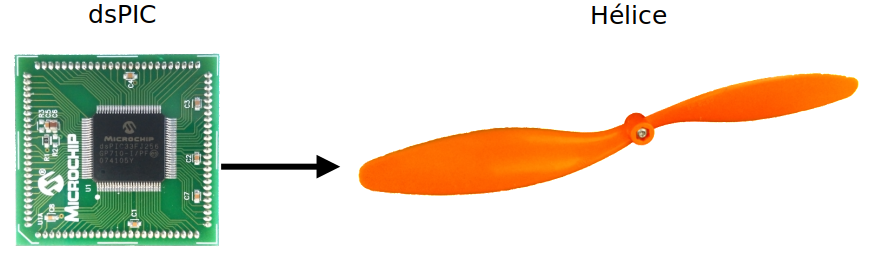
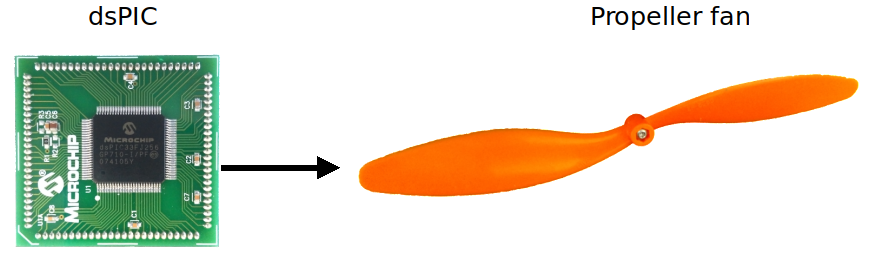
[Project 1] Relecture.

diff --git a/projet/partie 1/elech310_projet_partie1_eng.tex b/projet/partie 1/elech310_projet_partie1_eng.tex
@@ -2,7 +2,7 @@
 \usepackage[utf8]{inputenc}
 \usepackage[T1]{fontenc}
 \usepackage{amsthm} %numéroter les questions
-\usepackage[frenchb]{babel}
+\usepackage[english]{babel}
 \usepackage{datetime}
 \usepackage{xspace} % typographie IN
 \usepackage{hyperref}% hyperliens
@@ -28,7 +28,7 @@
 
 \usepackage{framed}
 
-\newdateformat{mydate}{2016--2017}%hack pour remplacer \THEYEAR
+\newdateformat{mydate}{v1.0.0}%hack pour remplacer \THEYEAR
 
 
 \newboolean{corrige}
@@ -55,7 +55,7 @@
 %% fancy header & foot
 \pagestyle{fancy}
 %Numero du TP :
-\def \labonumber {Projet -- Partie 1}
+\def \labonumber {Projet -- Part 1}
 \lhead{[ELEC-H-310] Choucroute numérique\\ \labonumber}
 \rhead{\mydate\today\\ page \thepage}
 \chead{\ifthenelse{\boolean{corrige}}{Corrigé}{}}
@@ -84,7 +84,7 @@ pdfsubject={}
 \newcommand{\addcontentslinenono}[4]{\addtocontents{#1}{\protect\contentsline{#2}{#3}{#4}{}}}
 
 \date{\vspace{-1.7cm}\mydate\today}
-\title{\vspace{-2cm}\labonumber \\ Digital electronics [ELEC-H-310]\\Design of a cooling control system~: \\ pre-analysis and propeller fan power supply\ifthenelse{\boolean{corrige}}{~\\Corrigé}{}}
+\title{\vspace{-2cm}\labonumber \\ Digital electronics [ELEC-H-310]\\Design of a cooling control system: \\ pre-analysis and propeller fan power supply\ifthenelse{\boolean{corrige}}{~\\Corrigé}{}}
 
 %\author{\vspace{-1cm}}%\textsc{Yannick Allard}}
 
@@ -96,61 +96,61 @@ pdfsubject={}
 
 
 
-%%%%%%%%%%%%%%%%%%%%%%%%%%%%%%%%%%%%%%%%%%%%%%%%%%%%%%%%%%%%%%%%%%%%%%%%%%%%%%%%%%%%%%%%%%%%%%%%%%%%%%%%%%%%%
-%%%%%%%%%%%%%%%%%%%%%%%%%%%%%%%%%%%%%%%%%%%%%%%%%%%%%%%%%%%%%%%%%%%%%%%%%%%%%%%%%%%%%%%%%%%%%%%%%%%%%%%%%%%%%
-%%%%%%%%%%%%%%%%%%%%%%%%%%%%%%%%%%%%%%%%%%%%%%%%%%%%%%%%%%%%%%%%%%%%%%%%%%%%%%%%%%%%%%%%%%%%%%%%%%%%%%%%%%%%%
-% http://tex.stackexchange.com/questions/128123/circuitikz-current-source
-% preparation to create bipoles
+% %%%%%%%%%%%%%%%%%%%%%%%%%%%%%%%%%%%%%%%%%%%%%%%%%%%%%%%%%%%%%%%%%%%%%%%%%%%%%%%%%%%%%%%%%%%%%%%%%%%%%%%%%%%%%
+% %%%%%%%%%%%%%%%%%%%%%%%%%%%%%%%%%%%%%%%%%%%%%%%%%%%%%%%%%%%%%%%%%%%%%%%%%%%%%%%%%%%%%%%%%%%%%%%%%%%%%%%%%%%%%
+% %%%%%%%%%%%%%%%%%%%%%%%%%%%%%%%%%%%%%%%%%%%%%%%%%%%%%%%%%%%%%%%%%%%%%%%%%%%%%%%%%%%%%%%%%%%%%%%%%%%%%%%%%%%%%
+% % http://tex.stackexchange.com/questions/128123/circuitikz-current-source
+% % preparation to create bipoles
 
-\makeatletter
-\def\TikzBipolePath#1#2{\pgf@circ@bipole@path{#1}{#2}}
+% \makeatletter
+% \def\TikzBipolePath#1#2{\pgf@circ@bipole@path{#1}{#2}}
 
-\pgf@circ@Rlen = \pgfkeysvalueof{/tikz/circuitikz/bipoles/length}
-\makeatother 
+% \pgf@circ@Rlen = \pgfkeysvalueof{/tikz/circuitikz/bipoles/length}
+% \makeatother 
 
-\newlength{\ResUp} \newlength{\ResDown}
-\newlength{\ResLeft} \newlength{\ResRight}
+% \newlength{\ResUp} \newlength{\ResDown}
+% \newlength{\ResLeft} \newlength{\ResRight}
 
-% set default dohicky size
+% % set default dohicky size
 
-\ctikzset{bipoles/doohicky/height/.initial=.4}
-\ctikzset{bipoles/doohicky/width/.initial=.6}
+% \ctikzset{bipoles/doohicky/height/.initial=.4}
+% \ctikzset{bipoles/doohicky/width/.initial=.6}
 
-% create doohicky shape
+% % create doohicky shape
 
-\pgfcircdeclarebipole{}
- {\ctikzvalof{bipoles/doohicky/height}}
- {doohicky}
- {\ctikzvalof{bipoles/doohicky/height}}
- {\ctikzvalof{bipoles/doohicky/width}}
- {
-    \pgfsetlinewidth{\pgfkeysvalueof{/tikz/circuitikz/bipoles/thickness}\pgfstartlinewidth}
-    \pgfextractx{\ResRight}{\northeast}
-    \pgfextracty{\ResUp}{\northeast}
-    \pgfextractx{\ResLeft}{\southwest}
+% \pgfcircdeclarebipole{}
+%  {\ctikzvalof{bipoles/doohicky/height}}
+%  {doohicky}
+%  {\ctikzvalof{bipoles/doohicky/height}}
+%  {\ctikzvalof{bipoles/doohicky/width}}
+%  {
+%     \pgfsetlinewidth{\pgfkeysvalueof{/tikz/circuitikz/bipoles/thickness}\pgfstartlinewidth}
+%     \pgfextractx{\ResRight}{\northeast}
+%     \pgfextracty{\ResUp}{\northeast}
+%     \pgfextractx{\ResLeft}{\southwest}
 
-  \pgfmoveto{\pgfpoint{\ResLeft}{0cm}}
-    \pgfpathellipse{\pgfpoint{0.333\ResLeft}{0cm}}{\pgfpoint{0.667\ResRight}{0cm}}{\pgfpoint{0cm}{\ResUp}}
-  \pgfmoveto{\pgfpoint{\ResRight}{0cm}}
-    \pgfpathellipse{\pgfpoint{0.333\ResRight}{0cm}}{\pgfpoint{0.667\ResRight}{0cm}}{\pgfpoint{0cm}{\ResUp}}
-  \pgfusepath{draw} %draw doohicky
-    \pgfscope
-    \pgfsetarrowsend{latex'}
-    \pgfpathmoveto{\pgfpoint{0.667\ResLeft}{1.333\ResUp}}
-    \pgfpathlineto{\pgfpoint{0.667\ResRight}{1.333\ResUp}}
-    \pgfusepath{draw}   %draw arrow
-    \endpgfscope
- }
+%   \pgfmoveto{\pgfpoint{\ResLeft}{0cm}}
+%     \pgfpathellipse{\pgfpoint{0.333\ResLeft}{0cm}}{\pgfpoint{0.667\ResRight}{0cm}}{\pgfpoint{0cm}{\ResUp}}
+%   \pgfmoveto{\pgfpoint{\ResRight}{0cm}}
+%     \pgfpathellipse{\pgfpoint{0.333\ResRight}{0cm}}{\pgfpoint{0.667\ResRight}{0cm}}{\pgfpoint{0cm}{\ResUp}}
+%   \pgfusepath{draw} %draw doohicky
+%     \pgfscope
+%     \pgfsetarrowsend{latex'}
+%     \pgfpathmoveto{\pgfpoint{0.667\ResLeft}{1.333\ResUp}}
+%     \pgfpathlineto{\pgfpoint{0.667\ResRight}{1.333\ResUp}}
+%     \pgfusepath{draw}   %draw arrow
+%     \endpgfscope
+%  }
 
-% create doohicky to-path style
+% % create doohicky to-path style
 
-\def\doohickypath#1{\TikzBipolePath{doohicky}{#1}}
-\tikzset{doohicky/.style = {\circuitikzbasekey, /tikz/to path=\doohickypath, l=#1}}
+% \def\doohickypath#1{\TikzBipolePath{doohicky}{#1}}
+% \tikzset{doohicky/.style = {\circuitikzbasekey, /tikz/to path=\doohickypath, l=#1}}
 
-% end of setup
-%%%%%%%%%%%%%%%%%%%%%%%%%%%%%%%%%%%%%%%%%%%%%%%%%%%%%%%%%%%%%%%%%%%%%%%%%%%%%%%%%%%%%%%%%%%%%%%%%%%%%%%%%%%%
-%%%%%%%%%%%%%%%%%%%%%%%%%%%%%%%%%%%%%%%%%%%%%%%%%%%%%%%%%%%%%%%%%%%%%%%%%%%%%%%%%%%%%%%%%%%%%%%%%%%%%%%%%%%%
-%%%%%%%%%%%%%%%%%%%%%%%%%%%%%%%%%%%%%%%%%%%%%%%%%%%%%%%%%%%%%%%%%%%%%%%%%%%%%%%%%%%%%%%%%%%%%%%%%%%%%%%%%%%%
+% % end of setup
+% %%%%%%%%%%%%%%%%%%%%%%%%%%%%%%%%%%%%%%%%%%%%%%%%%%%%%%%%%%%%%%%%%%%%%%%%%%%%%%%%%%%%%%%%%%%%%%%%%%%%%%%%%%%%
+% %%%%%%%%%%%%%%%%%%%%%%%%%%%%%%%%%%%%%%%%%%%%%%%%%%%%%%%%%%%%%%%%%%%%%%%%%%%%%%%%%%%%%%%%%%%%%%%%%%%%%%%%%%%%
+% %%%%%%%%%%%%%%%%%%%%%%%%%%%%%%%%%%%%%%%%%%%%%%%%%%%%%%%%%%%%%%%%%%%%%%%%%%%%%%%%%%%%%%%%%%%%%%%%%%%%%%%%%%%%
 
 
 
@@ -196,11 +196,11 @@ During the first lab session, you will first pre-analyse the project in order to
 Then, you will conceive the speed control of the propeller fan.
 
 \section*{Prerequisite}
-Before entering in the lab, you have to read the project specifications defined in the file «~Design of a temperature regulation system~».
+Before entering in the lab, you have to read the project specifications defined in the document ``Design of a temperature regulation system".
 
 
 \section*{Objectives}
-At the end of this lab session, you'll be able to~:
+At the end of this lab session, you'll be able to:
 \begin{itemize}
 	\item Slice a big amount of project specifications in submodules.
 	\item Associate to each module the adequate peripheral devices.
@@ -243,18 +243,18 @@ Moreover, each of these submodule will be easy to reuse in other projects on con
 
 
 \section{Preanalysis and reinterpretation of the project specifications}
-To simplify the coding, you will first reinterpretate the specifications~:
+To simplify the coding, you will first reinterpretate the specifications:
 \begin{itemize}
-	\item Generally speaking, what are the features required by the project specifications~?
-	Exemple~: pouvoir faire tourner l’hélice à une vitesse réglable.
-	\item For each of these features, answer to the following questions~:
+	\item Generally speaking, what are the features required by the project specifications?
+	Exemple: pouvoir faire tourner l’hélice à une vitesse réglable.
+	\item For each of these features, answer to the following questions:
 	\begin{itemize}
-		\item How does the interfacing with external world work~?
-		Must external circuits be added~?
-		\item What are the inputs and outputs~?
-		\item Which $\mu$C peripheral devices are used (you may find some help in the coding guide (guide de programmation))~?
+		\item How does the interfacing with external world work?
+		Must external circuits be added?
+		\item What are the inputs and outputs?
+		\item Which $\mu$C peripheral devices are used (you may find some help in the coding guide (guide de programmation))?
 	\end{itemize}
-	\item Realise a block diagram showing how those different features interact.
+	\item Realize a block diagram showing how those different features interact.
 \end{itemize}
 
 
@@ -277,13 +277,13 @@ This first module that you have to implement is the speed control of the propell
 \begin{figure}[H]
 \center
 \includegraphics[width=0.8\textwidth]{alim-helice}
-\caption{Contrôle de l'hélice par le dsPIC33.}
+\caption{dsPIC33 controlling the propeller fan.}
 \label{fig:helice}
 \end{figure}
 
 In order to do this, you will have to use the module named \textit{Output Compare -- PWM}, described in the appendix of the dsPIC coding document.
 
-As a reminder, the principle of generating a square wave can be described as being a timer with two thresholds~:
+As a reminder, the principle of generating a square wave can be described as being a timer with two thresholds:
 \begin{itemize}
 	\item When the timer starts, the ouput pin \texttt{OCx} is at ‘1’.
 	\item When the counting register of the timer reaches the first threshold, named \texttt{OCxRS}, the output turns to ‘0’.
@@ -293,10 +293,10 @@ As a reminder, the principle of generating a square wave can be described as bei
 
 By playing with the values of these two thresholds, it is possible to generate any square wave.
 
-Operational mode~:
+Operational mode:
 \begin{itemize}
 	\item Read the section of the coding guide (guide de programmation) concerning the PWM generator.
-	\item Write the routine able to generate on one of the pins \texttt{OCx} a rectangular wave with a period of 100~$\mu s$ and a duty cycle of 40~\%.
+	\item Write the routine able to generate on one of the pins \texttt{OCx} a rectangular wave with a period of 100$\mu s$ and a duty cycle of 40\%.
 	Verify these values with an oscilloscope.
 	\item Modify your program so that this routine is presented as a function allowing to change easily the duty cycle without changing the period of the signal.
 	\item Connect the power supply pins of the propeller fan at 0V-5V of the protoboard, and connect the input In1 or In2 of the propeller fan to your PWM output.
@@ -321,13 +321,13 @@ Operational mode~:
 The PWM modulation can be applied to the digital-to-analog conversion.
 % Le principe de ce convertisseur est présenté sur la figure suivante.
 
-By eliminating the high frequencis components with a decoupling capacitor, we only keep the mean value of the signal, that is to say $D(t) \cdot 3.3V$, where $D(t)$ is this evolution of the duty cycle over time\footnote{A variant of this principle, known as Delta modulation (or Sigme Delta), is used in analog-to-digital converters with high resolution and low frequency, as well as in the audio sector.}.
+By eliminating the high frequencis components with a decoupling capacitor, we only keep the mean value of the signal, that is to say $D(t) \cdot 3.3V$, where $D(t)$ is this evolution of the duty cycle over time\footnote{A variant of this principle, known as Delta modulation (or Sigma Delta), is used in analog-to-digital converters with high resolution and low frequency, as well as in the audio sector.}.
 
 \begin{itemize}
-	\item Thanks to an oscilloscope, analyse the spectrum of the PWM signal.
+	\item Using an oscilloscope, analyze the spectrum of the PWM signal.
 	\item In this spectrum, observe the effect of the modulation.
-	\item How to size the RC filter to eliminate the switching effect~?
-	\item Deduce the limits of this principle~: can we convert any type of signal~?
+	\item How to size the RC filter to eliminate the switching effect?
+	\item Deduce the limits of this principle: can we convert any type of signal?
 \end{itemize}
 
 
